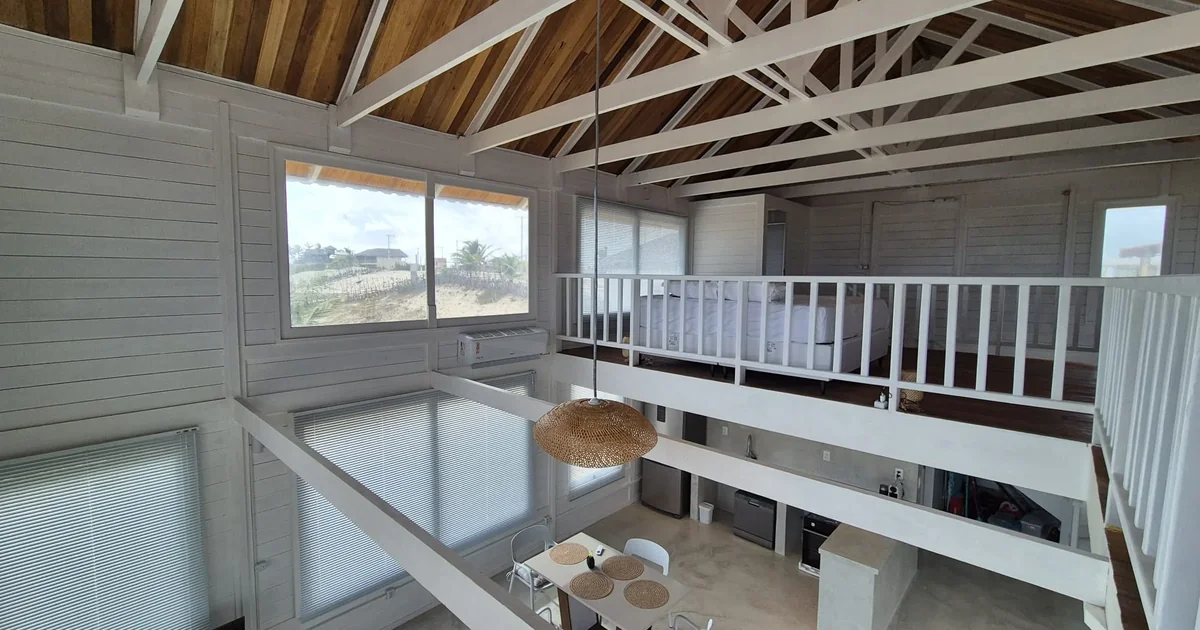
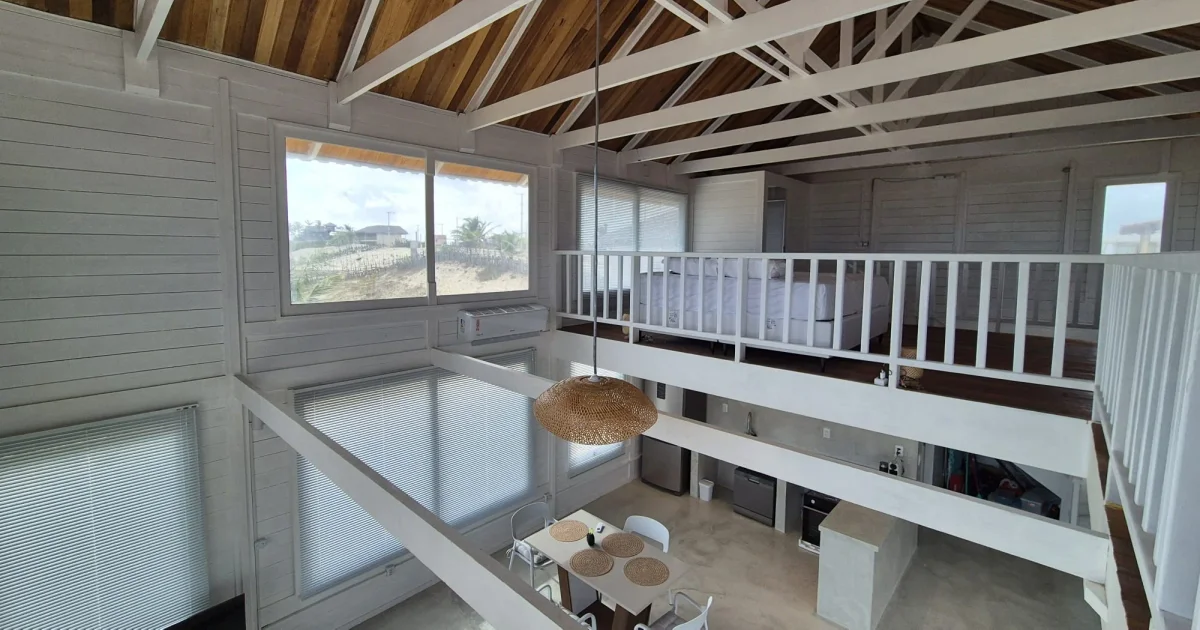
Add Chalé Divino em Tatajuba listing and feature it first on homepage
New property page (PT/EN/ES) with full SEO/OG tags, gallery generated
from the property's drone video, and existing Vimeo embed. Reorders
/propriedades by posting date (newest first) and features the chalé
first in the homepage projects carousel.

diff --git a/src/data/oportunidadesDataI18n.ts b/src/data/oportunidadesDataI18n.ts
@@ -2655,6 +2655,41 @@ export const oportunidadesDataByLang: Record<string, Partial<OportunidadeDetalhe
     installments: "Contact us for terms",
     category: "venda",
     referralCode: "ALBERTO"
+  },
+  {
+    id: "chale-divino-tatajuba",
+    slug: "chale-divino-tatajuba",
+    title: "FOR SALE",
+    searchTitle: "Chalé Divino in Tatajuba",
+    image: "/imoveis/chale-divino-tatajuba-01.webp",
+    badge: "Exclusive Opportunity",
+    propertyTitle: "CHALÉ DIVINO — TATAJUBA",
+    location: "Vila Tatajuba, Camocim - CE",
+    rating: 5,
+    exclusiveText: "Authentic wood-and-thatch chalet | 431.63 sqm lot | Steps from the sea",
+    summaryDescription: "Authentic wood chalet with a thatched roof in Vila Tatajuba, on Ceará's west coast. 431.63 sqm lot, two floors, a canopy bedroom and a veranda among coconut palms, steps from the sea.",
+    about: [
+      "Built in wood beneath a generous thatched roof, Chalé Divino is an authentic retreat in Vila Tatajuba — a traditional fishing community that has become one of the most sought-after destinations on the Ceará coast, amid dunes, lagoons and the winds that draw kitesurfers from around the world.",
+      "The house spans two floors. On the ground floor, a wooden staircase leads up past a rustic-style bathroom with a vessel sink framed by a natural-fiber mirror. Upstairs, beneath the high ceiling of the thatched roof, the living area flows into the kitchen and bedroom, where the queen bed is dressed with a light canopy — opening onto a veranda facing the coconut palms and the horizon.",
+      "The lot measures 431.63 sqm with approximately 70 sqm of built area, wood construction, public water supply and a septic tank. An invitation for anyone seeking a beach house with character — for personal use or as a short-term rental chalet, riding Tatajuba's growing tourist flow.",
+      "The documentation is possessory, with consolidated occupancy for 7 years and no disputes. The property is already registered (plot code TT316) in IDACE's Special Land Regularization Project for the Traditional Community of Tatajuba."
+    ],
+    infra: [
+      "Lot: 431.63 sqm",
+      "Built area: approximately 70 sqm",
+      "Wood structure with thatched roof",
+      "2 floors: ground floor and upper floor",
+      "1 bedroom with canopy",
+      "Rustic-style bathroom",
+      "Public water supply",
+      "Septic tank sanitation",
+      "Documentation: possessory, with 7 years of occupancy; registered (plot TT316) in IDACE's Special Land Regularization Project — Traditional Community of Tatajuba"
+    ],
+    facilities: ["Vila Tatajuba", "431.63 sqm", "Wood & Thatch", "2 Floors", "Near the Sea"],
+    priceTag: "Price",
+    price: "R$ 1,800,000.00",
+    installments: "Contact us for terms",
+    category: "venda"
   }],
   es: [
     {
@@ -3536,6 +3571,41 @@ export const oportunidadesDataByLang: Record<string, Partial<OportunidadeDetalhe
     installments: "Consulte las condiciones",
     category: "venda",
     referralCode: "ALBERTO"
+  },
+  {
+    id: "chale-divino-tatajuba",
+    slug: "chale-divino-tatajuba",
+    title: "VENTA",
+    searchTitle: "Chalé Divino en Tatajuba",
+    image: "/imoveis/chale-divino-tatajuba-01.webp",
+    badge: "Oportunidad Exclusiva",
+    propertyTitle: "CHALÉ DIVINO — TATAJUBA",
+    location: "Vila Tatajuba, Camocim - CE",
+    rating: 5,
+    exclusiveText: "Chalé auténtico de madera y palma | Terreno de 431,63 m² | A pasos del mar",
+    summaryDescription: "Chalé auténtico en madera y cobertura de palma en Vila Tatajuba, costa oeste de Ceará. Terreno de 431,63 m², dos plantas, dormitorio con dosel y terraza entre cocoteros, a pasos del mar.",
+    about: [
+      "Construido en madera bajo una generosa cobertura de palma, el Chalé Divino es un refugio auténtico en Vila Tatajuba — comunidad tradicional de pescadores que se ha convertido en uno de los destinos más buscados del litoral cearense, entre dunas, lagunas y los vientos que atraen a kitesurfistas de todo el mundo.",
+      "La casa se distribuye en dos plantas. En la planta baja, la escalera de madera conduce al baño de estilo rústico, con lavabo de apoyo enmarcado por un espejo de fibra natural. En la planta superior, bajo la altura generosa de la cobertura de palma, la sala se integra con la cocina y el dormitorio, donde la cama de matrimonio luce un dosel de tela ligera — y se abre a la terraza orientada hacia los cocoteros y el horizonte.",
+      "Son 431,63 m² de terreno y aproximadamente 70 m² de área construida, con estructura en madera, suministro de agua por red pública y saneamiento por fosa séptica. Una invitación para quienes buscan una casa de playa con personalidad — para uso propio o como chalé de temporada, aprovechando el creciente flujo turístico de Tatajuba.",
+      "La situación documental es de posesión, con ocupación consolidada desde hace 7 años y sin litigios. El inmueble ya está registrado (código de lote TT316) en el Proyecto de Regularización Territorial Especial del IDACE para la Comunidad Tradicional de Tatajuba."
+    ],
+    infra: [
+      "Terreno: 431,63 m²",
+      "Área construida: aproximadamente 70 m²",
+      "Estructura en madera con cobertura de palma",
+      "2 plantas: baja y superior",
+      "1 dormitorio con dosel",
+      "Baño de estilo rústico",
+      "Suministro de agua por red pública",
+      "Saneamiento por fosa séptica",
+      "Documentación: posesión, con 7 años de ocupación; registrado (lote TT316) en el Proyecto de Regularización Territorial Especial del IDACE — Comunidad Tradicional de Tatajuba"
+    ],
+    facilities: ["Vila Tatajuba", "431,63 m²", "Madera y Palma", "2 Plantas", "Cerca del Mar"],
+    priceTag: "Valor",
+    price: "R$ 1.800.000,00",
+    installments: "Consulte las condiciones",
+    category: "venda"
   }],
 };
 

diff --git a/src/data/oportunidadesData.ts b/src/data/oportunidadesData.ts
@@ -2680,5 +2680,52 @@ export const oportunidadesData: OportunidadeDetalhe[] = [
     { id: "confirmado", label: "2.000 m² (metade confirmada)", priceTag: "Valor", price: "R$ 1.100.000,00" },
     { id: "total", label: "Até 4.000 m² (se o sócio também vender)", priceTag: "Valor estimado", price: "R$ 2.200.000,00", installments: "Sujeito à adesão do sócio — consulte condições" }
   ]
+},
+{
+  id: "chale-divino-tatajuba",
+  slug: "chale-divino-tatajuba",
+  title: "VENDA",
+  searchTitle: "Chalé Divino em Tatajuba",
+  image: "/imoveis/chale-divino-tatajuba-01.webp",
+  badge: "Oportunidade Exclusiva",
+  propertyTitle: "CHALÉ DIVINO — TATAJUBA",
+  location: "Vila Tatajuba, Camocim - CE",
+  rating: 5,
+  exclusiveText: "Chalé autêntico de madeira e palha | Terreno de 431,63 m² | A poucos passos do mar",
+  summaryDescription: "Chalé autêntico em madeira e cobertura de palha na Vila Tatajuba, litoral oeste do Ceará. Terreno de 431,63 m², dois pavimentos, quarto com dossel e varanda entre coqueiros, a poucos passos do mar.",
+  about: [
+    "Erguido em madeira sob uma generosa cobertura de palha, o Chalé Divino é um refúgio autêntico na Vila Tatajuba — comunidade tradicional de pescadores que se tornou um dos destinos mais desejados do litoral cearense entre dunas, lagoas e os ventos que atraem kitesurfistas do mundo inteiro.",
+    "A casa se distribui em dois pavimentos. No térreo, a escada de madeira conduz ao banheiro em estilo rústico, com cuba de apoio emoldurada por um espelho de fibra natural. No piso superior, sob o pé-direito alto da cobertura de sapé, a sala se integra à cozinha e ao dormitório, onde a cama de casal ganha um dossel de tecido leve — e se abre para a varanda voltada aos coqueiros e ao horizonte.",
+    "São 431,63 m² de terreno e aproximadamente 70 m² de área construída, com estrutura em madeira, abastecimento de água pela rede pública e esgotamento sanitário por fossa séptica. Um convite para quem busca uma casa de praia com personalidade — para uso próprio ou como chalé de temporada, aproveitando o fluxo turístico crescente de Tatajuba.",
+    "A situação documental é de posse, com ocupação consolidada há 7 anos e sem litígios. O imóvel já está cadastrado (código de campo/lote TT316) no Projeto de Regularização Fundiária Especial do IDACE para a Comunidade Tradicional de Tatajuba."
+  ],
+  infra: [
+    "Terreno: 431,63 m²",
+    "Área construída: aproximadamente 70 m²",
+    "Estrutura em madeira com cobertura de palha",
+    "2 pavimentos: térreo e piso superior",
+    "1 dormitório com dossel",
+    "Banheiro em estilo rústico",
+    "Abastecimento de água pela rede pública",
+    "Esgotamento sanitário por fossa séptica",
+    "Documentação: posse, com 7 anos de ocupação; cadastrado (lote TT316) no Projeto de Regularização Fundiária Especial do IDACE — Comunidade Tradicional de Tatajuba"
+  ],
+  facilities: ["Vila Tatajuba", "431,63 m²", "Madeira & Palha", "2 Pavimentos", "Perto do Mar"],
+  gallery: {
+    main: "/imoveis/chale-divino-tatajuba-01.webp",
+    sideTop: "/imoveis/chale-divino-tatajuba-02.webp",
+    sideBottom: "/imoveis/chale-divino-tatajuba-03.webp",
+    extra: [
+      "/imoveis/chale-divino-tatajuba-04.webp",
+      "/imoveis/chale-divino-tatajuba-05.webp"
+    ]
+  },
+  mapImage: "/mapa.avif",
+  mapUrl: "https://maps.google.com/maps?q=Vila+Tatajuba,+Camocim+-+CE&hl=pt-BR&z=15&output=embed",
+  videoSources: ["https://player.vimeo.com/video/1219550272"],
+  priceTag: "Valor",
+  price: "R$ 1.800.000,00",
+  installments: "Consulte condições",
+  category: "venda"
 }
 ];

diff --git a/src/components/ProjetosDestaque.tsx b/src/components/ProjetosDestaque.tsx
@@ -12,6 +12,18 @@ type ProjetosDestaqueProps = {
 
 const projetos = [
   {
+    id: "chale-divino-tatajuba",
+    image: "/imoveis/chale-divino-tatajuba-01.webp",
+    tag: "VENDA",
+    location: "Vila Tatajuba, Camocim - CE",
+    title: "CHALÉ DIVINO — TATAJUBA",
+    area: "431,63 m²",
+    beds: 1,
+    baths: 1,
+    price: "R$ 1.800.000,00",
+    detailIndex: 0,
+  },
+  {
     id: "casa-alto-padrao-taiba-vista-mar",
     image: "/imoveis/casa-alto-padrao-taiba-vista-mar-23.webp",
     tag: "VENDA",

diff --git a/src/pages/PropriedadesPage.tsx b/src/pages/PropriedadesPage.tsx
@@ -15,7 +15,7 @@ export default function PropriedadesPage() {
   return (
     <div id="propriedades">
       <ListagemPropriedades
-        items={getOportunidadesData(i18n.language).filter((item) => !item.unlisted)}
+        items={getOportunidadesData(i18n.language).filter((item) => !item.unlisted).reverse()}
         onSelect={handleSelectOpportunity}
       />
     </div>
